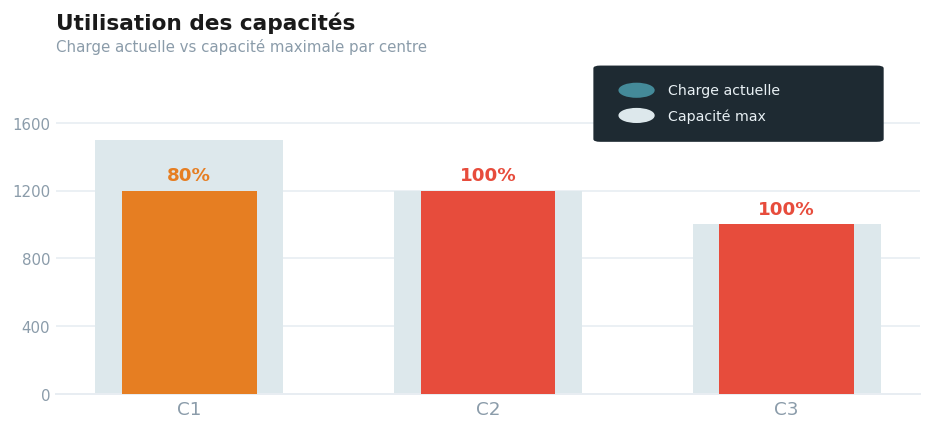
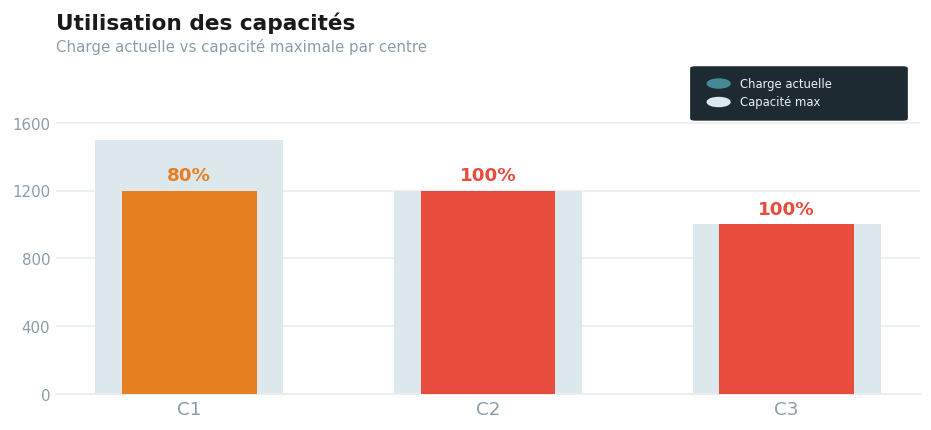
fix: réduire la taille et repositionner les légendes des graphiques vers la droite

Changed region(s): [[0.623, 0.1512, 0.9968, 0.3326]]

diff --git a/visualization/charts.py b/visualization/charts.py
@@ -55,17 +55,17 @@ def _title_block(ax, title, subtitle=None):
                 fontsize=9, color=TICK_COLOR, va='top', fontfamily=FONT)
 
 
-def _legend_card(ax, labels, colors, x_rel=0.66, y_rel=0.96):
-    pad_x  = 0.022
-    pad_y  = 0.028
-    line_h = 0.075
-    dot_r  = 0.020
-    card_w = 0.32
-    card_h = pad_y * 2 + line_h * len(labels) + 0.005
+def _legend_card(ax, labels, colors, x_rel=0.74, y_rel=0.96):
+    pad_x  = 0.014
+    pad_y  = 0.018
+    line_h = 0.055
+    dot_r  = 0.013
+    card_w = 0.24
+    card_h = pad_y * 2 + line_h * len(labels) + 0.004
 
     card = FancyBboxPatch(
         (x_rel, y_rel - card_h), card_w, card_h,
-        boxstyle="round,pad=0.008",
+        boxstyle="round,pad=0.006",
         transform=ax.transAxes,
         facecolor=LEGEND_BG, edgecolor='none',
         zorder=10, clip_on=False,
@@ -81,10 +81,10 @@ def _legend_card(ax, labels, colors, x_rel=0.66, y_rel=0.96):
         )
         ax.add_patch(dot)
         ax.text(
-            x_rel + pad_x + dot_r * 2 + 0.016, y_c,
+            x_rel + pad_x + dot_r * 2 + 0.012, y_c,
             label,
             transform=ax.transAxes,
-            color=LEGEND_FG, fontsize=8.5,
+            color=LEGEND_FG, fontsize=7,
             va='center', fontfamily=FONT,
             zorder=11, clip_on=False,
         )
@@ -123,7 +123,7 @@ def generer_graphique_flux(donnees_flux, chemin_sortie):
     ax.yaxis.set_major_locator(matplotlib.ticker.MaxNLocator(integer=True, nbins=5))
 
     _title_block(ax, 'Répartition des flux', 'Nombre de requêtes par région et par centre')
-    _legend_card(ax, centres, bar_colors, x_rel=0.66, y_rel=0.97)
+    _legend_card(ax, centres, bar_colors, x_rel=0.74, y_rel=0.97)
 
     fig.subplots_adjust(top=0.80, right=0.97, left=0.07, bottom=0.10)
     plt.savefig(chemin_sortie, dpi=120, bbox_inches='tight',
@@ -169,7 +169,7 @@ def generer_graphique_capacites(donnees_utilisation, chemin_sortie):
 
     _title_block(ax, 'Utilisation des capacités', 'Charge actuelle vs capacité maximale par centre')
     _legend_card(ax, ['Charge actuelle', 'Capacité max'],
-                 [PRIMARY, COLOR_CAP], x_rel=0.63, y_rel=0.97)
+                 [PRIMARY, COLOR_CAP], x_rel=0.74, y_rel=0.97)
 
     fig.subplots_adjust(top=0.80, right=0.97, left=0.07, bottom=0.10)
     plt.savefig(chemin_sortie, dpi=120, bbox_inches='tight',
